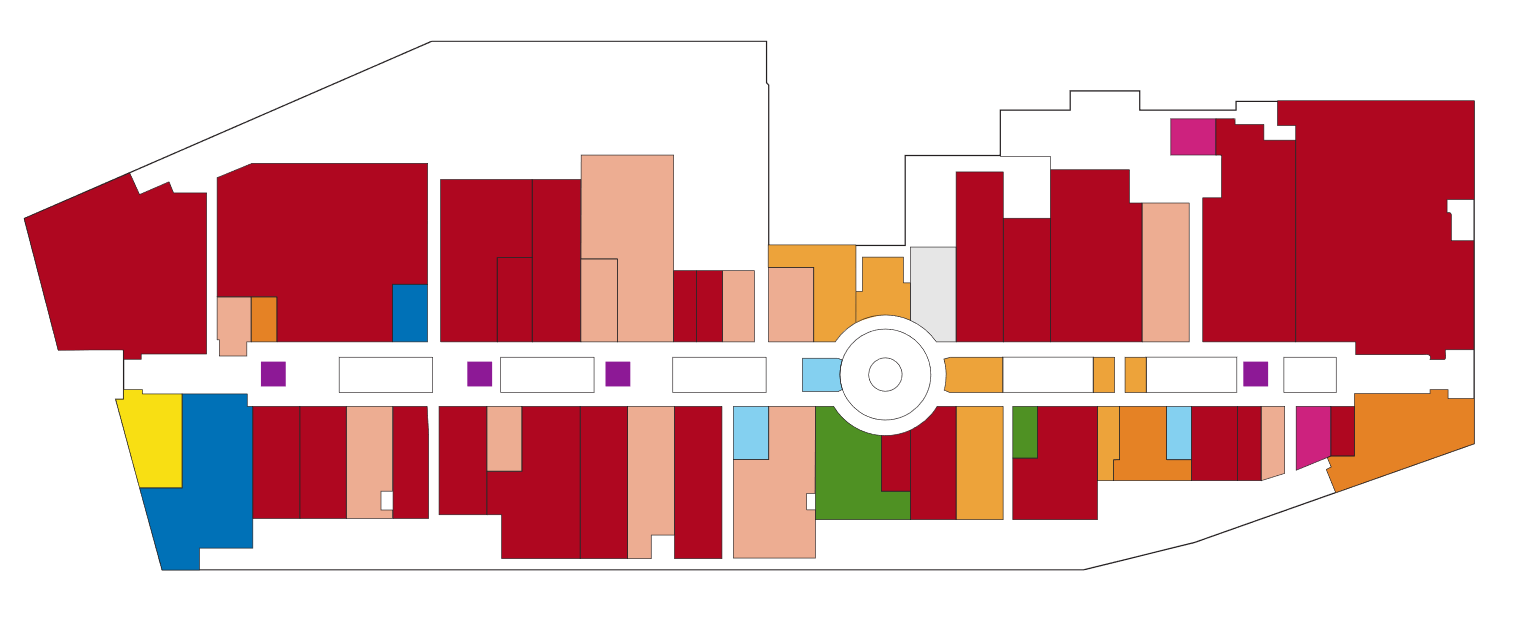
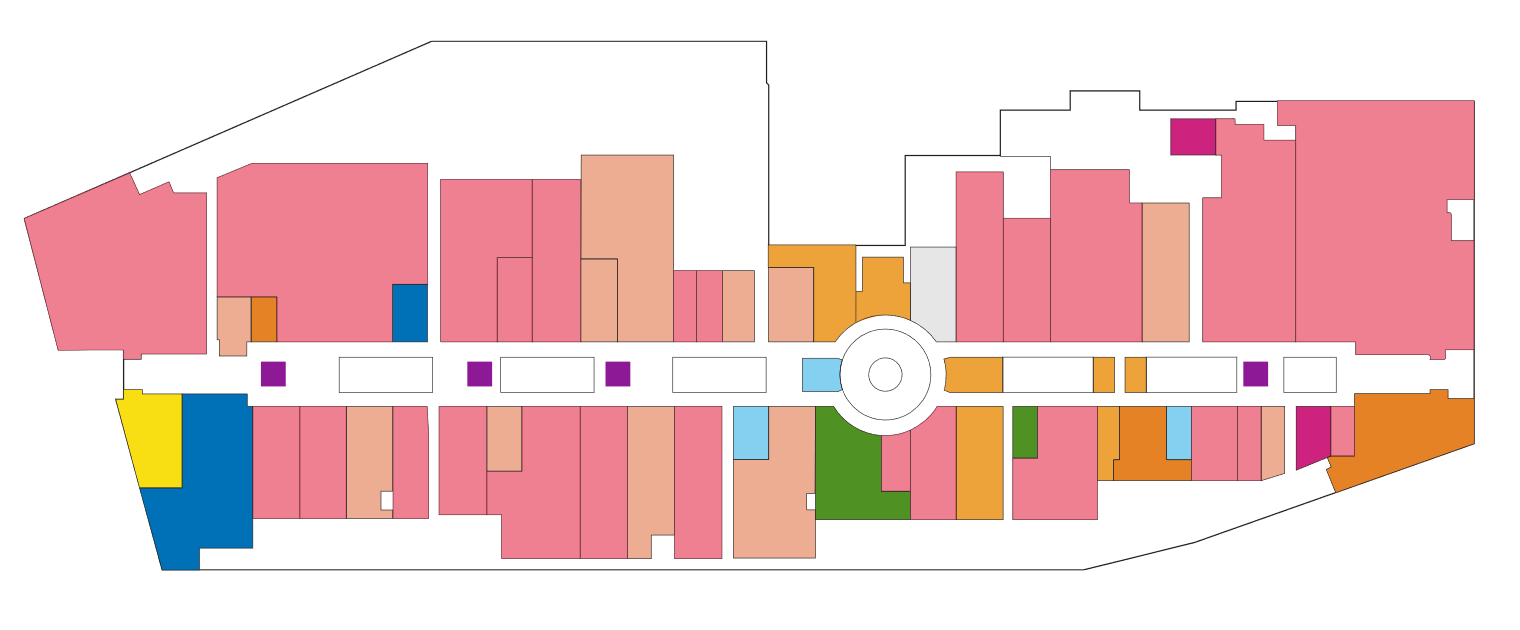
Recolored stuff

diff --git a/nakupne_centra/App.xaml b/nakupne_centra/App.xaml
@@ -57,37 +57,37 @@
             <Setter Property="HorizontalAlignment" Value="Right"/>
         </Style>
         <Style x:Key="CategoryFashionStyle" TargetType="Border">
-            <Setter Property="Background" Value="Orange"/>
+            <Setter Property="Background" Value="#ef8091"/>
         </Style>
         <Style x:Key="CategoryFootwearStyle" TargetType="Border">
-            <Setter Property="Background" Value="Yellow"/>
+            <Setter Property="Background" Value="#edad92"/>
         </Style>
         <Style x:Key="CategoryGroceriesStyle" TargetType="Border">
-            <Setter Property="Background" Value="Blue"/>
+            <Setter Property="Background" Value="#f8df13"/>
         </Style>
         <Style x:Key="CategoryBooksGiftsToysStyle" TargetType="Border">
-            <Setter Property="Background" Value="Lime"/>
+            <Setter Property="Background" Value="#e58225"/>
         </Style>
         <Style x:Key="CategoryElectronicsStyle" TargetType="Border">
-            <Setter Property="Background" Value="Cyan"/>
+            <Setter Property="Background" Value="#0071b7"/>
         </Style>
         <Style x:Key="CategoryJewelleryStyle" TargetType="Border">
-            <Setter Property="Background" Value="Firebrick"/>
+            <Setter Property="Background" Value="#84d0f0"/>
         </Style>
         <Style x:Key="CategoryGastronomyStyle" TargetType="Border">
-            <Setter Property="Background" Value="LightBlue"/>
+            <Setter Property="Background" Value="#eda33a"/>
         </Style>
         <Style x:Key="CategoryBeautyStyle" TargetType="Border">
-            <Setter Property="Background" Value="Pink"/>
+            <Setter Property="Background" Value="#a5f5a9"/>
         </Style>
         <Style x:Key="CategorySportStyle" TargetType="Border">
-            <Setter Property="Background" Value="Purple"/>
+            <Setter Property="Background" Value="#4f9123"/>
         </Style>
         <Style x:Key="CategoryServicesStyle" TargetType="Border">
-            <Setter Property="Background" Value="Peru"/>
+            <Setter Property="Background" Value="#cd227e"/>
         </Style>
         <Style x:Key="CategoryHomeStyle" TargetType="Border">
-            <Setter Property="Background" Value="Azure"/>
+            <Setter Property="Background" Value="#8d1996"/>
         </Style>
     </Application.Resources>
 </Application>
